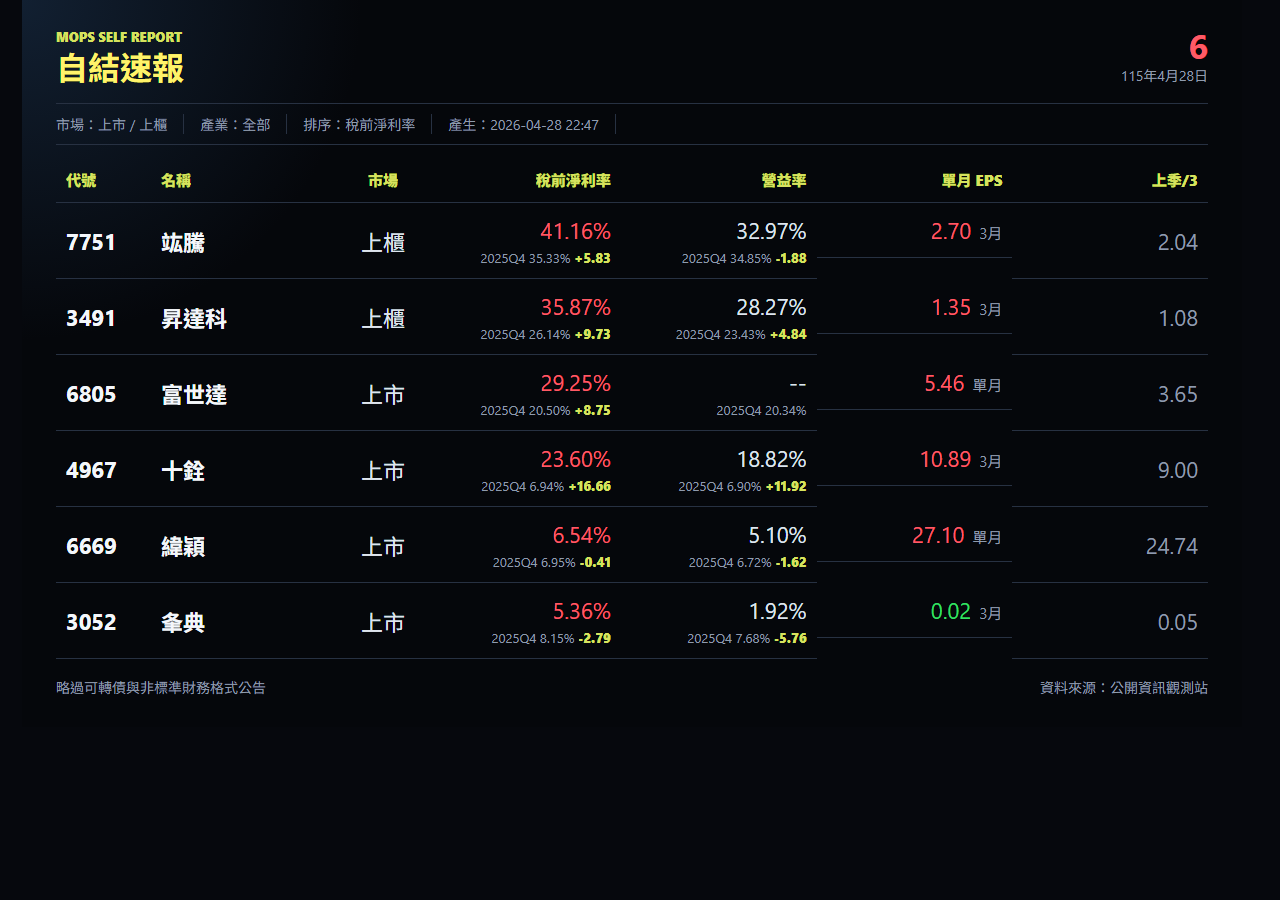
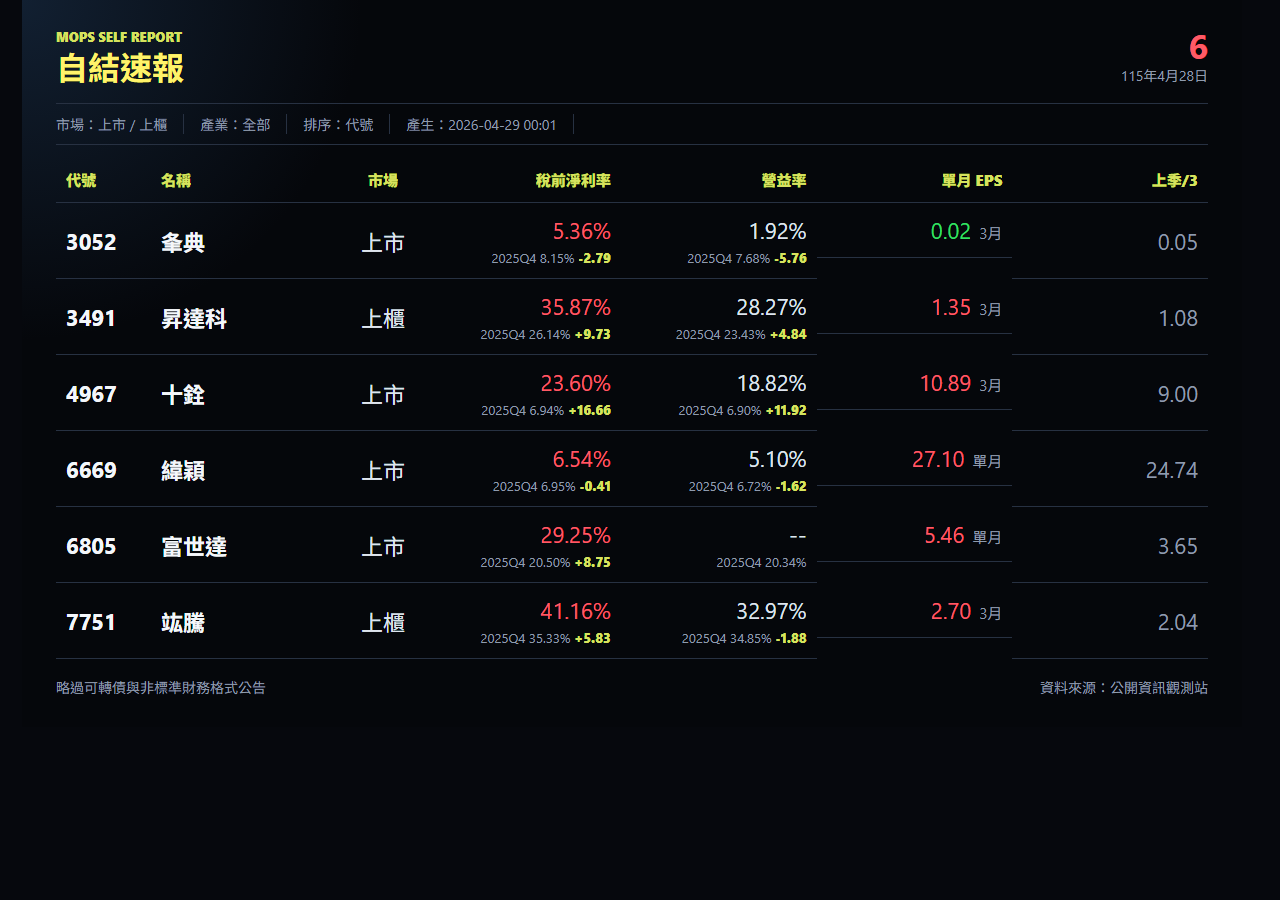
Sort Taiwan self-report by ticker

diff --git a/web/data/self-report-latest.js b/web/data/self-report-latest.js
@@ -1,5 +1,5 @@
 window.selfReportLatest = {
-  "generatedAt": "2026-04-28T22:47:54+08:00",
+  "generatedAt": "2026-04-29T00:01:51+08:00",
   "queryDate": "2026-04-28",
   "displayDate": "115年4月28日",
   "count": 6,
@@ -11,26 +11,26 @@ window.selfReportLatest = {
   },
   "rows": [
     {
-      "code": "7751",
-      "name": "竑騰",
-      "market": "上櫃",
+      "code": "3052",
+      "name": "夆典",
+      "market": "上市",
       "announcement_date": "115/04/28",
-      "subject": "本公司有價證券近期多次達公布注意交易資訊標準， 故公告相關訊息，以利投資人區別暸解。",
+      "subject": "係因本公司有價證券於集中交易市場達公布注意交易資訊 標準，故公布相關財務業務等重大訊息，以利投資人區別瞭解",
       "month_label": "3月",
-      "monthly_revenue": 220.35,
-      "monthly_pre_tax_income": 90.69,
-      "monthly_parent_income": 72.66,
-      "monthly_eps": 2.7,
-      "quarter_eps": 6.12,
-      "tax_margin_pct": 41.1572498298162,
-      "operating_margin_pct": 32.97481279782165,
-      "previous_quarter_monthly_eps": 2.04,
+      "monthly_revenue": 261.0,
+      "monthly_pre_tax_income": 14.0,
+      "monthly_parent_income": 5.0,
+      "monthly_eps": 0.02,
+      "quarter_eps": 0.15,
+      "tax_margin_pct": 5.363984674329502,
+      "operating_margin_pct": 1.9157088122605364,
+      "previous_quarter_monthly_eps": 0.049999999999999996,
       "reference_quarter": "2025Q4",
-      "reference_tax_margin_pct": 35.33,
-      "reference_operating_margin_pct": 34.85,
-      "tax_margin_delta_pct": 5.827249829816203,
-      "operating_margin_delta_pct": -1.8751872021783527,
-      "detail_key": "otc:7751:20260428:150012:1"
+      "reference_tax_margin_pct": 8.15,
+      "reference_operating_margin_pct": 7.68,
+      "tax_margin_delta_pct": -2.7860153256704985,
+      "operating_margin_delta_pct": -5.764291187739463,
+      "detail_key": "sii:3052:20260428:163625:1"
     },
     {
       "code": "3491",
@@ -53,28 +53,6 @@ window.selfReportLatest = {
       "tax_margin_delta_pct": 9.726261398176291,
       "operating_margin_delta_pct": 4.837477203647417,
       "detail_key": "otc:3491:20260428:165954:2"
-    },
-    {
-      "code": "6805",
-      "name": "富世達",
-      "market": "上市",
-      "announcement_date": "115/04/28",
-      "subject": "本公司有價證券近期達公布注意交易資訊標準，故公告 相關訊息，以利投資人區別暸解",
-      "month_label": "單月",
-      "monthly_revenue": 1600.0,
-      "monthly_pre_tax_income": 468.0,
-      "monthly_parent_income": null,
-      "monthly_eps": 5.46,
-      "quarter_eps": 10.96,
-      "tax_margin_pct": 29.25,
-      "operating_margin_pct": null,
-      "previous_quarter_monthly_eps": 3.6533333333333338,
-      "reference_quarter": "2025Q4",
-      "reference_tax_margin_pct": 20.5,
-      "reference_operating_margin_pct": 20.34,
-      "tax_margin_delta_pct": 8.75,
-      "operating_margin_delta_pct": null,
-      "detail_key": "sii:6805:20260428:150301:1"
     },
     {
       "code": "4967",
@@ -121,26 +99,48 @@ window.selfReportLatest = {
       "detail_key": "sii:6669:20260428:155636:2"
     },
     {
-      "code": "3052",
-      "name": "夆典",
+      "code": "6805",
+      "name": "富世達",
       "market": "上市",
       "announcement_date": "115/04/28",
-      "subject": "係因本公司有價證券於集中交易市場達公布注意交易資訊 標準，故公布相關財務業務等重大訊息，以利投資人區別瞭解",
-      "month_label": "3月",
-      "monthly_revenue": 261.0,
-      "monthly_pre_tax_income": 14.0,
-      "monthly_parent_income": 5.0,
-      "monthly_eps": 0.02,
-      "quarter_eps": 0.15,
-      "tax_margin_pct": 5.363984674329502,
-      "operating_margin_pct": 1.9157088122605364,
-      "previous_quarter_monthly_eps": 0.049999999999999996,
+      "subject": "本公司有價證券近期達公布注意交易資訊標準，故公告 相關訊息，以利投資人區別暸解",
+      "month_label": "單月",
+      "monthly_revenue": 1600.0,
+      "monthly_pre_tax_income": 468.0,
+      "monthly_parent_income": null,
+      "monthly_eps": 5.46,
+      "quarter_eps": 10.96,
+      "tax_margin_pct": 29.25,
+      "operating_margin_pct": null,
+      "previous_quarter_monthly_eps": 3.6533333333333338,
       "reference_quarter": "2025Q4",
-      "reference_tax_margin_pct": 8.15,
-      "reference_operating_margin_pct": 7.68,
-      "tax_margin_delta_pct": -2.7860153256704985,
-      "operating_margin_delta_pct": -5.764291187739463,
-      "detail_key": "sii:3052:20260428:163625:1"
+      "reference_tax_margin_pct": 20.5,
+      "reference_operating_margin_pct": 20.34,
+      "tax_margin_delta_pct": 8.75,
+      "operating_margin_delta_pct": null,
+      "detail_key": "sii:6805:20260428:150301:1"
+    },
+    {
+      "code": "7751",
+      "name": "竑騰",
+      "market": "上櫃",
+      "announcement_date": "115/04/28",
+      "subject": "本公司有價證券近期多次達公布注意交易資訊標準， 故公告相關訊息，以利投資人區別暸解。",
+      "month_label": "3月",
+      "monthly_revenue": 220.35,
+      "monthly_pre_tax_income": 90.69,
+      "monthly_parent_income": 72.66,
+      "monthly_eps": 2.7,
+      "quarter_eps": 6.12,
+      "tax_margin_pct": 41.1572498298162,
+      "operating_margin_pct": 32.97481279782165,
+      "previous_quarter_monthly_eps": 2.04,
+      "reference_quarter": "2025Q4",
+      "reference_tax_margin_pct": 35.33,
+      "reference_operating_margin_pct": 34.85,
+      "tax_margin_delta_pct": 5.827249829816203,
+      "operating_margin_delta_pct": -1.8751872021783527,
+      "detail_key": "otc:7751:20260428:150012:1"
     }
   ],
   "image": "./assets/self-report/self-report-2026-04-28.png",
